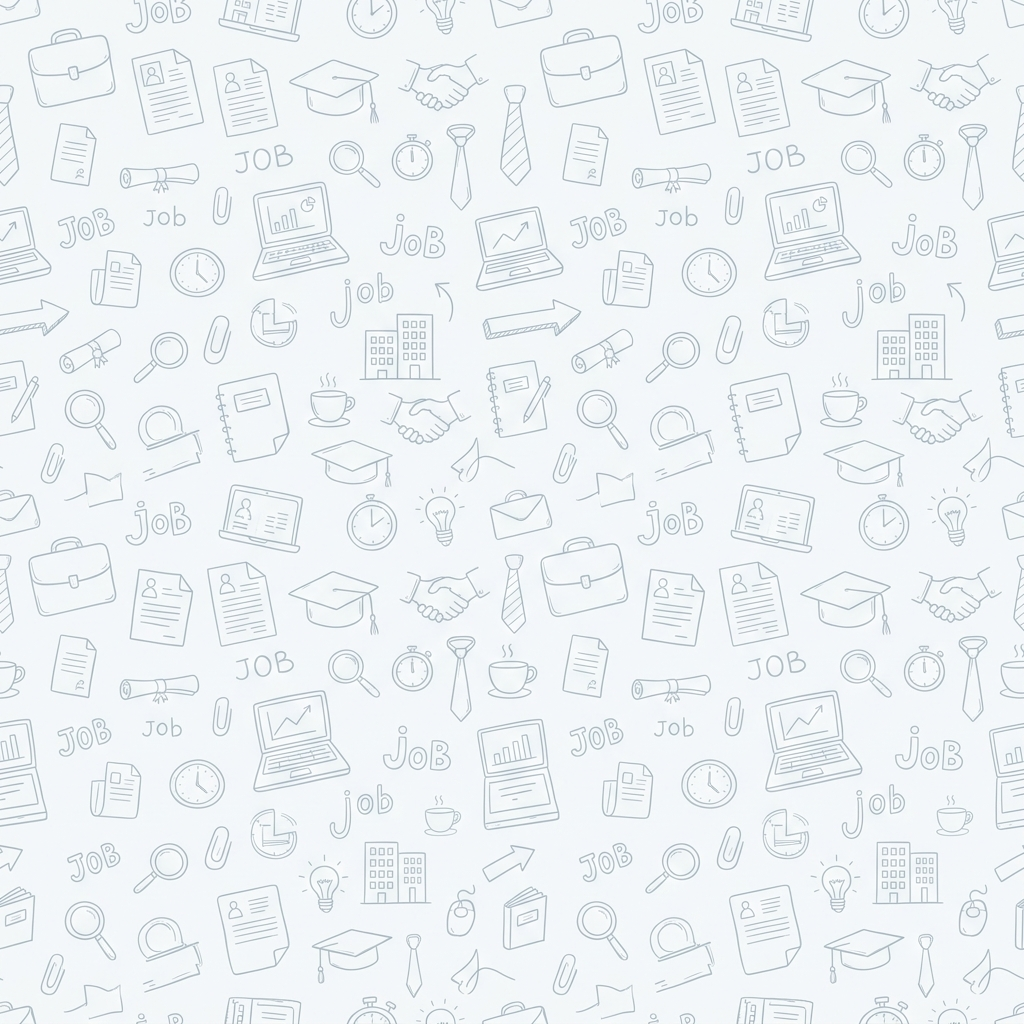
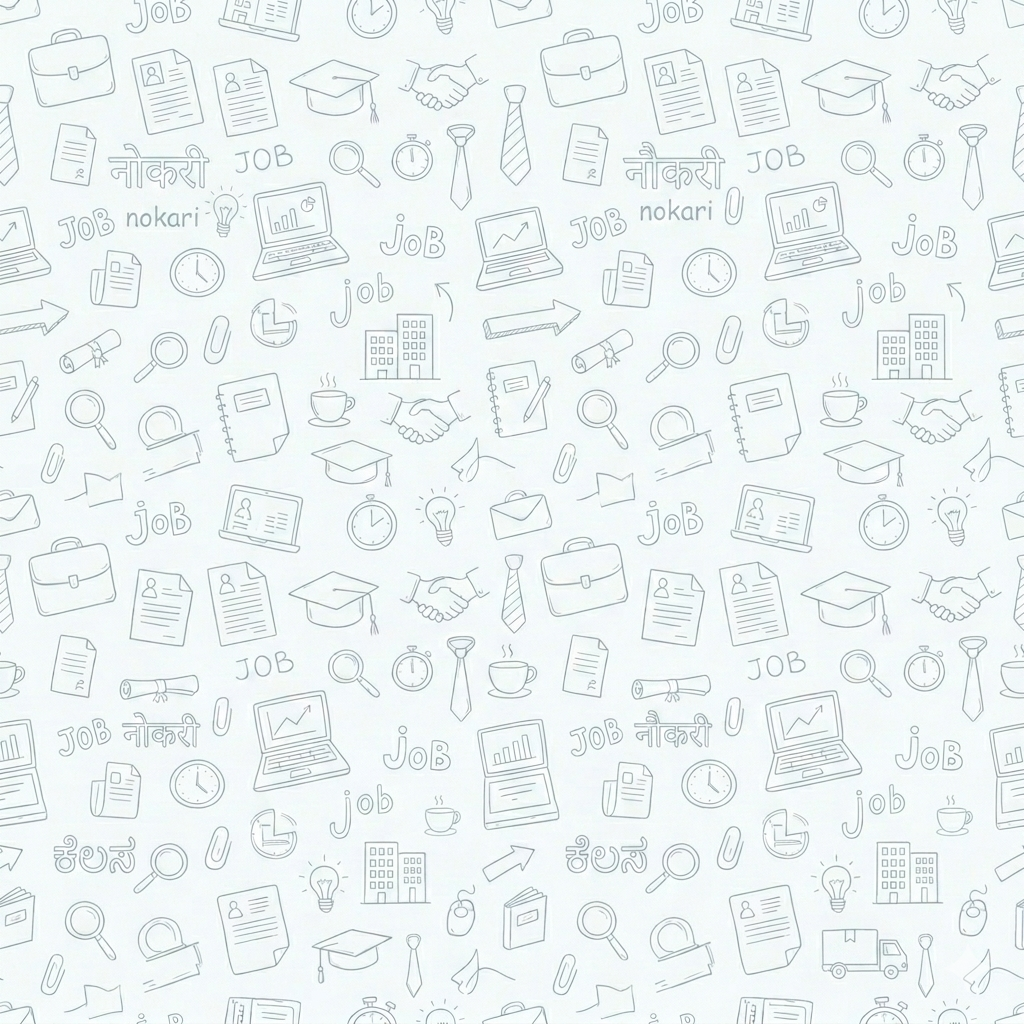
feat: add AllJobsScreen, CategoryJobsScreen, and NotificationsScreen with supporting filter components and assets.

diff --git a/src/components/HeaderFilterGrid.tsx b/src/components/HeaderFilterGrid.tsx
@@ -113,7 +113,7 @@ const HeaderFilterGrid: React.FC<HeaderFilterGridProps> = ({
       const items = groups[cityName];
       const areas = items.filter((i: any) => i.area !== null);
       const hasAreas = areas.length > 0;
-      
+
       if (hasAreas) {
         return {
           id: `city-group-${cityName}`,
@@ -383,7 +383,7 @@ const HeaderFilterGrid: React.FC<HeaderFilterGridProps> = ({
     if (!browsingCategory) return;
     const subcats = browsingCategory.subcategories || [];
     const currentSubcats = selectedFilters.subCategories || [];
-    
+
     if (isAllSubcategoriesSelected) {
       // Deselect all subcategories of this browsingCategory
       const updatedSubcats = currentSubcats.filter((s: any) => !subcats.some((sub: any) => sub.id == s.id));
@@ -403,13 +403,13 @@ const HeaderFilterGrid: React.FC<HeaderFilterGridProps> = ({
       const otherSubcats = currentSubcats.filter((s: any) => !subcats.some((sub: any) => sub.id == s.id));
       const subcatsWithParent = subcats.map((sub: any) => ({ ...sub, parent_id: browsingCategory.id }));
       const updatedSubcats = [...otherSubcats, ...subcatsWithParent];
-      
+
       // Ensure parent category is selected
       const catCurrent = selectedFilters.categories || [];
       const updatedCats = catCurrent.some((c: any) => c.id == browsingCategory.id)
         ? catCurrent
         : [...catCurrent, browsingCategory];
-        
+
       setSelectedFilters({
         ...selectedFilters,
         categories: updatedCats,
@@ -428,7 +428,7 @@ const HeaderFilterGrid: React.FC<HeaderFilterGridProps> = ({
     if (!browsingCity) return;
     const areas = browsingCity.areas || [];
     const currentCities = selectedFilters.cities || [];
-    
+
     if (isAllAreasSelected) {
       const updatedCities = currentCities.filter((c: any) => !areas.some((a: any) => a.id == c.id));
       setSelectedFilters({
@@ -452,13 +452,13 @@ const HeaderFilterGrid: React.FC<HeaderFilterGridProps> = ({
     }
     const filters: any = {};
     if (selectedFilters.categories && selectedFilters.categories.length > 0) {
-      filters.category_id = selectedFilters.categories.map((c: any) => c.id).join(',');
+      filters.category_id = selectedFilters.categories[0].id;
     }
     if (selectedFilters.subCategories && selectedFilters.subCategories.length > 0) {
-      filters.subcategory_id = selectedFilters.subCategories.map((c: any) => c.id).join(',');
+      filters.subcategory_id = selectedFilters.subCategories[0].id;
     }
     if (selectedFilters.cities && selectedFilters.cities.length > 0) {
-      filters.city_id = selectedFilters.cities.map((c: any) => c.id).join(',');
+      filters.city_id = selectedFilters.cities[0].id;
     }
     if (selectedFilters.jobType.length > 0) {
       filters.job_type = selectedFilters.jobType.map((t: string) => t.toLowerCase().replace(/[-\s]/g, '_')).join(',');
@@ -790,7 +790,7 @@ const HeaderFilterGrid: React.FC<HeaderFilterGridProps> = ({
 
                   return (
                     <View
-                       key={typeof option === 'string' ? option : option.id}
+                      key={typeof option === 'string' ? option : option.id}
                       style={styles.optionItem}>
 
                       <TouchableOpacity
@@ -819,10 +819,10 @@ const HeaderFilterGrid: React.FC<HeaderFilterGridProps> = ({
                         <Text style={[styles.optionText, { color: colors.textPrimary, flex: 1 }]}>{labelText}</Text>
                         {((selectedCategory === 'category' && !browsingCategory && option.subcategories?.length > 0) ||
                           (selectedCategory === 'city' && !browsingCity && option.hasAreas)) && (
-                          <View style={styles.arrowTouch}>
-                            <Icon name="chevron-right" size={12} color={colors.textPlaceholder} />
-                          </View>
-                        )}
+                            <View style={styles.arrowTouch}>
+                              <Icon name="chevron-right" size={12} color={colors.textPlaceholder} />
+                            </View>
+                          )}
                       </TouchableOpacity>
                     </View>
                   );

diff --git a/src/components/SideFilterHub.tsx b/src/components/SideFilterHub.tsx
@@ -438,13 +438,13 @@ const SideFilterHub: React.FC<SideFilterHubProps> = ({ colors, onFilterSelect, h
     }
     const filters: any = {};
     if (selectedFilters.categories && selectedFilters.categories.length > 0) {
-      filters.category_id = selectedFilters.categories.map((c: any) => c.id).join(',');
+      filters.category_id = selectedFilters.categories[0].id;
     }
     if (selectedFilters.subCategories && selectedFilters.subCategories.length > 0) {
-      filters.subcategory_id = selectedFilters.subCategories.map((c: any) => c.id).join(',');
+      filters.subcategory_id = selectedFilters.subCategories[0].id;
     }
     if (selectedFilters.cities && selectedFilters.cities.length > 0) {
-      filters.city_id = selectedFilters.cities.map((c: any) => c.id).join(',');
+      filters.city_id = selectedFilters.cities[0].id;
     }
     if (selectedFilters.jobType.length > 0) {
       filters.job_type = selectedFilters.jobType.map((t: string) => t.toLowerCase().replace(/[-\s]/g, '_')).join(',');

diff --git a/src/screens/main/notifications/NotificationsScreen.tsx b/src/screens/main/notifications/NotificationsScreen.tsx
@@ -105,7 +105,8 @@ const NotificationsScreen: React.FC<Props> = ({ navigation }) => {
                 notifData?.jobId || 
                 notifData?.job?.id || 
                 notifData?.application?.job_id ||
-                notifData?.application?.job?.id;
+                notifData?.application?.job?.id ||
+                notifData?.meta?.job_id;
     
     if (!jobId && notifData?.id && (typeStr.includes('job') || titleStr.includes('job'))) {
       jobId = notifData.id; // fallback if id represents job_id

diff --git a/src/screens/main/jobs/AllJobsScreen.tsx b/src/screens/main/jobs/AllJobsScreen.tsx
@@ -553,7 +553,7 @@ const styles = StyleSheet.create({
     alignItems: 'center',
     justifyContent: 'center',
   },
-  titleBox: { flex: 1 },
+  titleBox: { flex: 1, paddingRight: 56 },
   cardMeta: {
     flexDirection: 'row',
     gap: 16,

diff --git a/src/screens/main/jobs/CategoryJobsScreen.tsx b/src/screens/main/jobs/CategoryJobsScreen.tsx
@@ -463,7 +463,7 @@ const styles = StyleSheet.create({
     width: '100%',
     height: '100%',
   },
-  titleBox: { flex: 1 },
+  titleBox: { flex: 1, paddingRight: 56 },
   cornerBadge: {
     flexDirection: 'row',
     alignItems: 'center',
